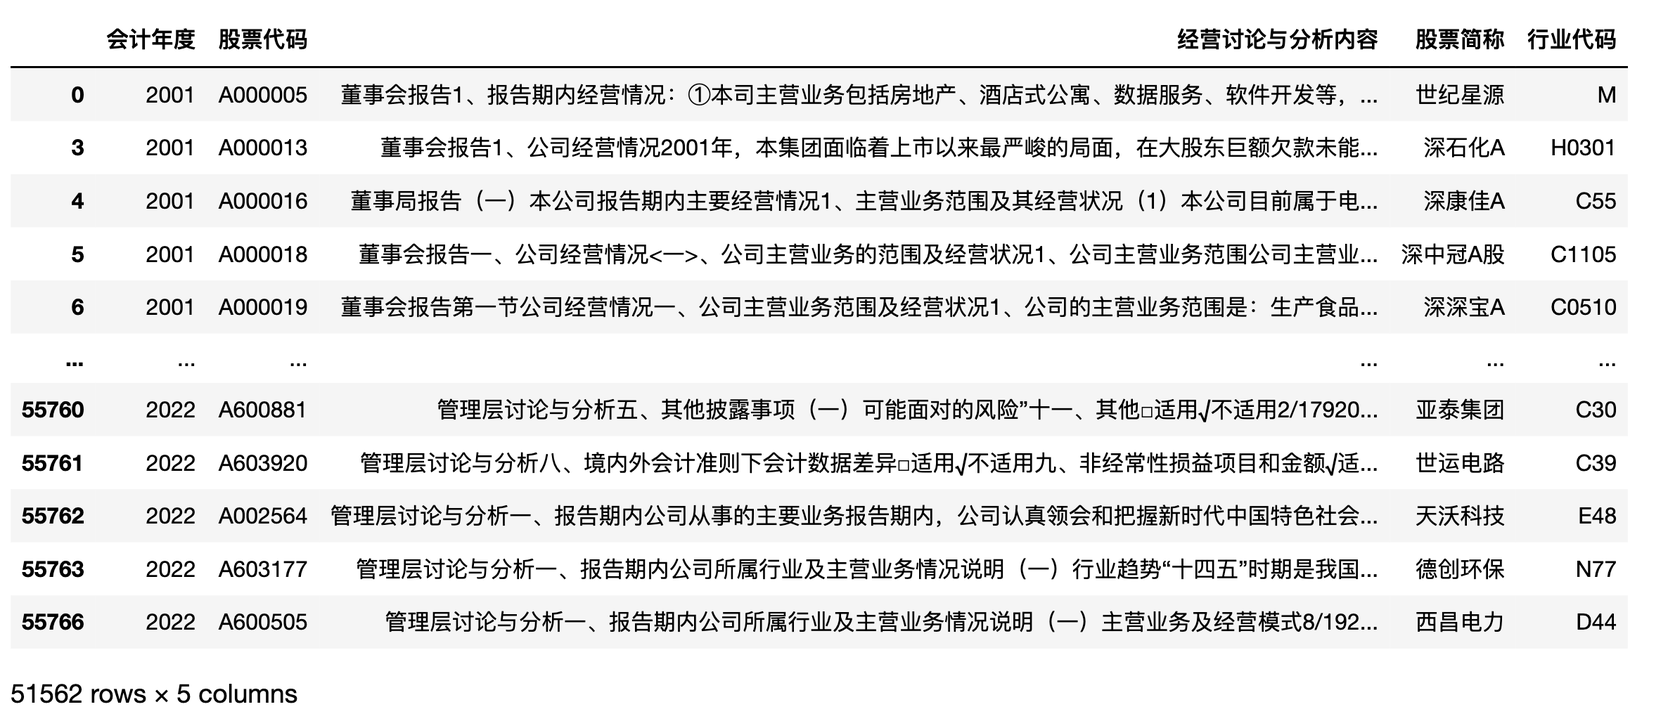
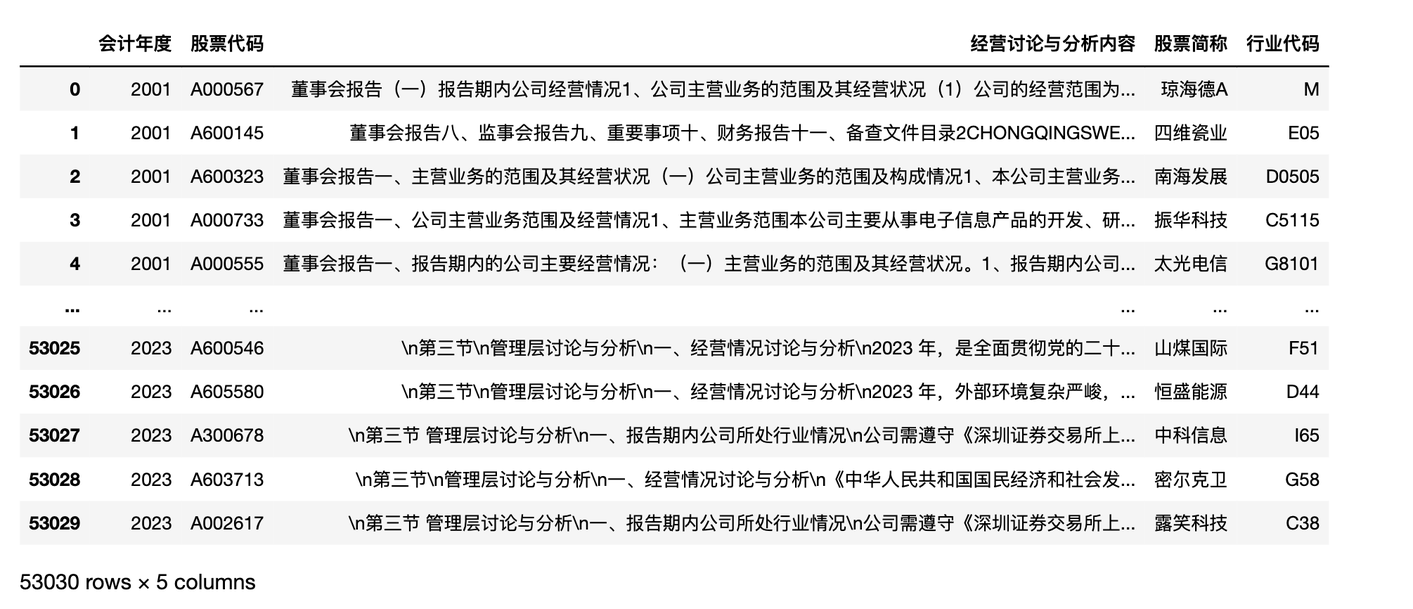
20240510

diff --git a/blog/2024-04-25-firm-economic-policy-uncertainty/index.html b/blog/2024-04-25-firm-economic-policy-uncertainty/index.html
@@ -124,8 +124,8 @@ Step-1. 选择了114家中国大陆的报纸，其中包括北京、上海、广
   "keywords": [
     "Python", "文本分析", "经济管理", "经济政策不确定性"
   ],
-  "articleBody": "本文使用的缩写\n EPU 经济政策不确定性(Economic Policy Uncertainty) FEPU 企业不确定性感知( Subjective perception of economic policy uncertainty)  \n一、背景 「经济政策不确定性(EPU)」 通常是用来衡量经济中政策不确定性水平的一种度量方式。企业作为一个理性的经济主体， 需要根据未来的期望成本和收益进行决策 。政府的经济政策会在很大程度上影响企业的预期成本和收益 ， 如果经济政策频繁变化 ， 会给企业带来困扰 。现有文献经济政策不确定性测量思路大概有\n 股票市场隐含波动率VIX衡量宏观层面经济不确定性。 利用外生变量，并结合企业对这些外生变量的依赖程度衡量企业面临的不确定性 。如政治事件、能源价格、汇率波动、贸易协定签订。 利用新闻文本测量的经济不确定性。  但 经济政策不确定性指标(EPU)存在两个问题\n EPU是宏观指标， 同期所有企业的EPU有且仅有一个观测值。 EPU默认所有企业是同质， 对经济政策不确定性的感知是相同的。  本推文参考聂辉华等(2020)内的算法, 实现利用 经营讨论与分析(MD\u0026A)文本数据 测量企业「企业不确定性感知FEPU」(FEPU, Subjective perception of economic policy uncertainty) 。\n\n二、EPU\u0026FEPU 2.1 EPU 在复现「企业不确定性感知FEPU」前，我们先了解利用新闻数据测量 EPU 的算法，这样更容易理解 FEPU 的原理。参考Huang、Yun\u0026 Paul(2020)，大邓在前段时间分享了一个代码教程 代码 | 使用「新闻数据」计算 「经济政策不确定性」指数 。 新闻数据计算EPU的算法\nStep-1. 选择了114家中国大陆的报纸，其中包括北京、上海、广州和天津等主要城市的报纸。 Step-2. 对于每家报纸，搜索包含以下三个关键词之一的文章：经济、不确定性和政策。这些关键词的中文和英文对照可以在论文的表格1中找到。 Step-3. 将每个月的文章数量按照满足第一个关键词的文章数量进行缩放。 Step-4. 将时间序列标准化，使其在2000年1月至2011年12月期间的标准差为1。 保证所有媒体计算得到的epu是可比的。 Step-5. 对十家报纸的月度序列进行简单平均，并将指标归一化，使其在2000年1月至2011年12月期间的平均值为100。 \n文献中算法内容长， 结构化不足， 理解起来需要一些脑力。 大邓换种描述方式\nEPU_t = m/n - m 时期 t 同时含经济Economic、政策Policy、不确定Uncertainty三类词的新闻条数m - n 时期 t 总的新闻条数n \n2.2 FEPU 理解了 EPU， 就能类比理解「企业不确定性感知FEPU」的算法。\n   算法 数据 层次 n m     EPU 新闻媒体文本 新闻 时期t新闻总条数n 时期t同时存在E、P、U三类词的新闻条数m   FEPU(word) 管理层讨论与分析(md\u0026a) 词语 将时期t的企业i的 md\u0026a 文本词语个数n。 1. 对md\u0026a进行分句2. 同时含EP、U两类词的句子中， 统计这些句子中EP、U的词语出现次数之和m   FEPU(sentence) 管理层讨论与分析(md\u0026a) 句子 将时期t的企业i的 md\u0026a 文本进行分句，得到句子个数n 1. 对md\u0026a进行分句2. 同时含EP、U两类词的句子中， 统计这类句子个数m    \n三、 准备cntext EPU 和 FEPU 于今日刚刚封装到 cntext2.1.1 中， 再计算这两个指数， 就变得容易多了。\n3.1 安装cntext 我使用的自己 未公开 的cntext 2.1.1 版本， Bug频出，等调整好了再公开。\n将 cntext-2.1.1-py3-none-any.whl 放置于桌面，打开 cmd (苹果电脑打开terminal)， 输入cd desktop\ncd desktop \n之后在 cmd (苹果电脑打开terminal) 中使用 pip3 安装\npip3 install pdfdocx pip3 install distinctiveness pip3 install pandarallel pip3 install cntext-2.1.1-py3-none-any.whl \n文末有 cntext-2.1.1-py3-none-any.whl 获取方式\n\n3.2 内置词典    内置文件 词典 参考文献     zh_common_EPU.yaml 经济E、政策P、不确定U Huang, Yun, and Paul Luk（2020）   zh_common_FEPU.yaml 经济政策EP、不确定性U 聂辉华, 阮睿\u0026沈吉（2020）    3.1 查看内置词典 import cntext as ct print(ct.__version__) ct.get_dict_list() Run\n2.1.1 ['zh_common_NTUSD.yaml', 'zh_common_DUTIR.yaml', 'enzh_common_StopWords.yaml', 'en_valence_Concreteness.yaml', 'en_common_LoughranMcDonald.yaml', 'zh_common_FinanceSenti.yaml', 'zh_common_TsinghuaPraiseDegrade.yaml', 'zh_common_FEPU.yaml', 聂辉华, 阮睿\u0026沈吉（2020） 'en_common_ANEW.yaml', 'en_common_NRC.yaml', 'zh_valence_ChineseEmoBank.yaml', 'zh_valence_SixSemanticDimensionDatabase.yaml', 'zh_common_FinacialFormalUnformal.yaml', 'zh_common_LoughranMcDonald.yaml', 'enzh_common_AdvConj.yaml', 'en_common_SentiWS.yaml', 'zh_common_Digitalization.yaml', 'en_common_LSD2015.yaml', 'zh_common_HowNet.yaml', 'zh_common_EPU.yaml'] #Huang, Yun, and Paul Luk（2020） \n3.1.2 导入词典 import cntext as ct FEPU_infos = ct.read_yaml_dict('zh_common_FEPU.yaml') print(FEPU_infos) Run\n{'Name': '中文经济政策不确定性词典', 'Desc': '中文经济政策不确定性词典, 含经济政策EconomicPolicy、不确定性Uncertainty两个词表', 'Refer': '聂辉华, 阮睿, 沈吉. 企业不确定性感知、投资决策和金融资产配置[J]. 世界经济, 2020, 43 (06): 77-98.', 'Category': ['经济政策', '不确定'], 'Dictionary': {'经济政策': ['市政', '政策', '货币政策', '政策鼓励', '国家', '扩内需', '保增长', '促发展', '产业发展', '法律', '法规', '行业政策', '产业政策', '宏观政策', '国民经济', '有关部门', '产业结构调整', '产业结构', '当地政府', '政府', '经济政策', '经济走势', '所得税', '税收减免', '刺激政策', '限贷令', '限购令', '保障房', '宏观调控', '产业发展', '证监会', '国家政策', '政治', '军事', '政策环境', '宏观', '政府补助政策', '调控政策', '税收政策', '政策扶持'], '不确定': ['风险', '经营风险', '市场风险', '信用风险', '不确定', '波动', '变化', '改变', '徘徊', '不稳', '不稳定', '不寻常', '错综复杂', '非常复杂', '纷繁复杂', '纷纭复杂', '十分复杂', '变得复杂', '风云突变', '矛盾突出', '突变', '复杂多变', '诡谲多变', '阵痛', '过渡', '问责', '整顿', '危险', '动荡', '多变性', '震荡', '难以确定', '难以预测', '难以语料', '难以琢磨', '难以捉摸', '接受考验', '混乱', '时而', '随机']} } \n3.3 内置函数 ct.epu(df, freq='Y',e_pattern='', p_pattern='', u_pattern='')  df 新闻DataFrame； DataFrame必须含date和text两个字段；每行一条记录，含所有时期所有的新闻。 freq 字符串；决定EPU的时间粒度， 年Y、月M、天D， 默认freq=‘Y’ e_pattern 字符串；经济类词典，用|间隔词语，形如 e_pattern = ‘经济|金融’ p_pattern 字符串；政策词典，用|间隔词语，形如 p_pattern = ‘政策|治理|行政’ u_pattern 字符串；不确定性词典，用|间隔词语，形如 u_pattern = ‘风险|危机|难以预测’  返回epu时间序列数据，格式为DataFrame\nct.fepu(text, ep_pattern='', u_pattern='')  text ；某时期t某企业i的管理层讨论与分析md\u0026a文本 ep_pattern 字符串；经济政策类词典，用|间隔词语，形如 ep_pattern = ‘经济|金融|政策|治理|行政’ u_pattern 字符串；不确定性词典，用|间隔词语，形如 u_pattern = ‘风险|危机|难以预测’  \n四、测量FEPU 4.1 读取数据  mda01-22.csv.gz 管理层讨论与分析2001-2022文本数据 行业代码00-22.xlsx 含股票名称、股票代码、行业等字段。  import pandas as pd df = pd.read_csv('mda01-22.csv.gz', compression='gzip') df.columns = ['会计年度', '股票代码', '经营讨论与分析内容'] #上市公司行业信息 ind_info_df = pd.read_excel('行业代码00-22.xlsx') #合并数据 df = pd.merge(df, ind_info_df, on=['股票代码', '会计年度'], how='inner') #剔除ST和金融类企业 df = df[(-df['股票简称'].str.contains('ST')) \u0026 (-df['行业代码'].str.contains('J'))] df 4.2 批量计算FEPU 选中字段 「经营讨论与分析内容」， 对该字段 .apply 运行函数 ct.fepu ，得到企业感知经济不确定性风险FEPU(含词语和句子两个FEPU)\n%%time #常规速度代码 #import cntext as ct #fepu_df = df['经营讨论与分析内容'].apply(ct.fepu) #res_df = pd.concat([df[['会计年度', '股票代码']], fepu_df], axis=1) #res_df.to_csv('result.csv', index=False) #res_df #加速版代码 import cntext as ct from pandarallel import pandarallel pandarallel.initialize() fepu_df = df['经营讨论与分析内容'].parallel_apply(ct.fepu) res_df = pd.concat([df[['会计年度', '股票代码']], fepu_df], axis=1) res_df.to_csv('result.csv', index=False) res_df Run\nCPU times: user 1.35 s, sys: 1.2 s, total: 2.54 s Wall time: 4min 29s `\n\n4.3 可视化 根据 FEPUw 和 FEPUs 的年度均值， 绘制2001-2022期间的经济政策不确定性变化折线图\nimport matplotlib.pyplot as plt import matplotlib import scienceplots import platform import matplotlib_inline matplotlib_inline.backend_inline.set_matplotlib_formats('png', 'svg') plt.style.use(['science', 'no-latex', 'cjk-sc-font']) system = platform.system() # 获取操作系统类型 if system == 'Windows': font = {'family': 'SimHei'} elif system == 'Darwin': font = {'family': 'Arial Unicode MS'} else: font = {'family': 'sans-serif'} matplotlib.rc('font', **font) # 设置全局字体 years = range(2001, 2023) FEPUw_s = [] FEPUs_s = [] for year, year_df in res_df.groupby('会计年度'): FEPUw_s.append(year_df['FEPUw'].mean()) FEPUs_s.append(year_df['FEPUs'].mean()) plt.figure(figsize=(10, 5)) plt.plot(years, FEPUw_s) plt.plot(years, FEPUs_s) plt.scatter(years, FEPUw_s, label='SEPUw') plt.scatter(years, FEPUs_s, label='SEPUs') plt.title('感知经济政策不确定性FEPU年度均值', size=12) plt.xlabel('年份', size=13) plt.ylabel('FEPU均值', size=13) plt.legend() plt.show() \n五、参考文献 [1]聂辉华, 阮睿, 沈吉. 企业不确定性感知、投资决策和金融资产配置[J]. 世界经济, 2020, 43 (06): 77-98. [2]Li, Jing, Huihua Nie, Rui Ruan, and Xinyi Shen. \"Subjective perception of economic policy uncertainty and corporate social responsibility: Evidence from China.\" International Review of Financial Analysis 91 (2024): 103022. [3]Huang, Yun, and Paul Luk. \"Measuring economic policy uncertainty in China.\" China Economic Review 59 (2020): 10136 \n六、获取资料 内容原创不易，\n- 100元 - mda01-22.csv.gz - A01-22.csv.gz - 100元 cntext-2.1.1-py3-none-any.whl - 200元 - mda01-22.csv.gz - A01-22.csv.gz - cntext-2.1.1-py3-none-any.whl 加微信 372335839， 备注「姓名-学校-专业」。\n\n广而告之  长期征稿 长期招募小伙伴 付费视频课 | Python实证指标构建与文本分析  ",
-  "wordCount" : "664",
+  "articleBody": "本文使用的缩写\n EPU 经济政策不确定性(Economic Policy Uncertainty) FEPU 企业不确定性感知( Subjective perception of economic policy uncertainty)  \n一、背景 「经济政策不确定性(EPU)」 通常是用来衡量经济中政策不确定性水平的一种度量方式。企业作为一个理性的经济主体， 需要根据未来的期望成本和收益进行决策 。政府的经济政策会在很大程度上影响企业的预期成本和收益 ， 如果经济政策频繁变化 ， 会给企业带来困扰 。现有文献经济政策不确定性测量思路大概有\n 股票市场隐含波动率VIX衡量宏观层面经济不确定性。 利用外生变量，并结合企业对这些外生变量的依赖程度衡量企业面临的不确定性 。如政治事件、能源价格、汇率波动、贸易协定签订。 利用新闻文本测量的经济不确定性。  但 经济政策不确定性指标(EPU)存在两个问题\n EPU是宏观指标， 同期所有企业的EPU有且仅有一个观测值。 EPU默认所有企业是同质， 对经济政策不确定性的感知是相同的。  本推文参考聂辉华等(2020)内的算法, 实现利用 经营讨论与分析(MD\u0026A)文本数据 测量企业「企业不确定性感知FEPU」(FEPU, Subjective perception of economic policy uncertainty) 。\n\n二、EPU\u0026FEPU 2.1 EPU 在复现「企业不确定性感知FEPU」前，我们先了解利用新闻数据测量 EPU 的算法，这样更容易理解 FEPU 的原理。参考Huang、Yun\u0026 Paul(2020)，大邓在前段时间分享了一个代码教程 代码 | 使用「新闻数据」计算 「经济政策不确定性」指数 。 新闻数据计算EPU的算法\nStep-1. 选择了114家中国大陆的报纸，其中包括北京、上海、广州和天津等主要城市的报纸。 Step-2. 对于每家报纸，搜索包含以下三个关键词之一的文章：经济、不确定性和政策。这些关键词的中文和英文对照可以在论文的表格1中找到。 Step-3. 将每个月的文章数量按照满足第一个关键词的文章数量进行缩放。 Step-4. 将时间序列标准化，使其在2000年1月至2011年12月期间的标准差为1。 保证所有媒体计算得到的epu是可比的。 Step-5. 对十家报纸的月度序列进行简单平均，并将指标归一化，使其在2000年1月至2011年12月期间的平均值为100。 \n文献中算法内容长， 结构化不足， 理解起来需要一些脑力。 大邓换种描述方式\nEPU_t = m/n - m 时期 t 同时含经济Economic、政策Policy、不确定Uncertainty三类词的新闻条数m - n 时期 t 总的新闻条数n \n2.2 FEPU 理解了 EPU， 就能类比理解「企业不确定性感知FEPU」的算法。\n   算法 数据 层次 n m     EPU 新闻媒体文本 新闻 时期t新闻总条数n 时期t同时存在E、P、U三类词的新闻条数m   FEPU(word) 管理层讨论与分析(md\u0026a) 词语 将时期t的企业i的 md\u0026a 文本词语个数n。 1. 对md\u0026a进行分句2. 同时含EP、U两类词的句子中， 统计这些句子中EP、U的词语出现次数之和m   FEPU(sentence) 管理层讨论与分析(md\u0026a) 句子 将时期t的企业i的 md\u0026a 文本进行分句，得到句子个数n 1. 对md\u0026a进行分句2. 同时含EP、U两类词的句子中， 统计这类句子个数m    \n三、 准备cntext EPU 和 FEPU 于今日刚刚封装到 cntext2.1.1 中， 再计算这两个指数， 就变得容易多了。\n3.1 安装cntext 我使用的自己 未公开 的cntext 2.1.1 版本， Bug频出，等调整好了再公开。\n将 cntext-2.1.1-py3-none-any.whl 放置于桌面，打开 cmd (苹果电脑打开terminal)， 输入cd desktop\ncd desktop \n之后在 cmd (苹果电脑打开terminal) 中使用 pip3 安装\npip3 install pdfdocx pip3 install distinctiveness pip3 install pandarallel pip3 install cntext-2.1.1-py3-none-any.whl \n文末有 cntext-2.1.1-py3-none-any.whl 获取方式\n\n3.2 内置词典    内置文件 词典 参考文献     zh_common_EPU.yaml 经济E、政策P、不确定U Huang, Yun, and Paul Luk（2020）   zh_common_FEPU.yaml 经济政策EP、不确定性U 聂辉华, 阮睿\u0026沈吉（2020）    3.1 查看内置词典 import cntext as ct print(ct.__version__) ct.get_dict_list() Run\n2.1.1 ['zh_common_NTUSD.yaml', 'zh_common_DUTIR.yaml', 'enzh_common_StopWords.yaml', 'en_valence_Concreteness.yaml', 'en_common_LoughranMcDonald.yaml', 'zh_common_FinanceSenti.yaml', 'zh_common_TsinghuaPraiseDegrade.yaml', 'zh_common_FEPU.yaml', 聂辉华, 阮睿\u0026沈吉（2020） 'en_common_ANEW.yaml', 'en_common_NRC.yaml', 'zh_valence_ChineseEmoBank.yaml', 'zh_valence_SixSemanticDimensionDatabase.yaml', 'zh_common_FinacialFormalUnformal.yaml', 'zh_common_LoughranMcDonald.yaml', 'enzh_common_AdvConj.yaml', 'en_common_SentiWS.yaml', 'zh_common_Digitalization.yaml', 'en_common_LSD2015.yaml', 'zh_common_HowNet.yaml', 'zh_common_EPU.yaml'] #Huang, Yun, and Paul Luk（2020） \n3.1.2 导入词典 import cntext as ct FEPU_infos = ct.read_yaml_dict('zh_common_FEPU.yaml') print(FEPU_infos) Run\n{'Name': '中文经济政策不确定性词典', 'Desc': '中文经济政策不确定性词典, 含经济政策EconomicPolicy、不确定性Uncertainty两个词表', 'Refer': '聂辉华, 阮睿, 沈吉. 企业不确定性感知、投资决策和金融资产配置[J]. 世界经济, 2020, 43 (06): 77-98.', 'Category': ['经济政策', '不确定'], 'Dictionary': {'经济政策': ['市政', '政策', '货币政策', '政策鼓励', '国家', '扩内需', '保增长', '促发展', '产业发展', '法律', '法规', '行业政策', '产业政策', '宏观政策', '国民经济', '有关部门', '产业结构调整', '产业结构', '当地政府', '政府', '经济政策', '经济走势', '所得税', '税收减免', '刺激政策', '限贷令', '限购令', '保障房', '宏观调控', '产业发展', '证监会', '国家政策', '政治', '军事', '政策环境', '宏观', '政府补助政策', '调控政策', '税收政策', '政策扶持'], '不确定': ['风险', '经营风险', '市场风险', '信用风险', '不确定', '波动', '变化', '改变', '徘徊', '不稳', '不稳定', '不寻常', '错综复杂', '非常复杂', '纷繁复杂', '纷纭复杂', '十分复杂', '变得复杂', '风云突变', '矛盾突出', '突变', '复杂多变', '诡谲多变', '阵痛', '过渡', '问责', '整顿', '危险', '动荡', '多变性', '震荡', '难以确定', '难以预测', '难以语料', '难以琢磨', '难以捉摸', '接受考验', '混乱', '时而', '随机']} } \n3.3 内置函数 ct.epu(df, freq='Y',e_pattern='', p_pattern='', u_pattern='')  df 新闻DataFrame； DataFrame必须含date和text两个字段；每行一条记录，含所有时期所有的新闻。 freq 字符串；决定EPU的时间粒度， 年Y、月M、天D， 默认freq=‘Y’ e_pattern 字符串；经济类词典，用|间隔词语，形如 e_pattern = ‘经济|金融’ p_pattern 字符串；政策词典，用|间隔词语，形如 p_pattern = ‘政策|治理|行政’ u_pattern 字符串；不确定性词典，用|间隔词语，形如 u_pattern = ‘风险|危机|难以预测’  返回epu时间序列数据，格式为DataFrame\nct.fepu(text, ep_pattern='', u_pattern='')  text ；某时期t某企业i的管理层讨论与分析md\u0026a文本 ep_pattern 字符串；经济政策类词典，用|间隔词语，形如 ep_pattern = ‘经济|金融|政策|治理|行政’ u_pattern 字符串；不确定性词典，用|间隔词语，形如 u_pattern = ‘风险|危机|难以预测’  \n四、测量FEPU 4.1 读取数据  mda01-23.csv.gz 管理层讨论与分析2001-2023文本数据 行业代码00-23.xlsx 含股票名称、股票代码、行业等字段。  import pandas as pd df = pd.read_csv('mda01-23.csv.gz', compression='gzip') df.columns = ['会计年度', '股票代码', '经营讨论与分析内容'] #上市公司行业信息 ind_info_df = pd.read_excel('行业代码00-23.xlsx') #合并数据 df = pd.merge(df, ind_info_df, on=['股票代码', '会计年度'], how='inner') #剔除ST和金融类企业 df = df[(-df['股票简称'].str.contains('ST')) \u0026 (-df['行业代码'].str.contains('J'))] df.sort_values('会计年度', ignore_index=True, inplace=True) df 4.2 批量计算FEPU 选中字段 「经营讨论与分析内容」， 对该字段 .apply 运行函数 ct.fepu ，得到企业感知经济不确定性风险FEPU(含词语和句子两个FEPU)\n%%time #常规速度代码 #import cntext as ct #fepu_df = df['经营讨论与分析内容'].apply(ct.fepu) #res_df = pd.concat([df[['会计年度', '股票代码']], fepu_df], axis=1) #res_df.to_csv('result.csv', index=False) #res_df #加速版代码 import cntext as ct from pandarallel import pandarallel pandarallel.initialize() fepu_df = df['经营讨论与分析内容'].parallel_apply(ct.fepu) res_df = pd.concat([df[['会计年度', '股票代码']], fepu_df], axis=1) res_df.to_csv('企业感知不确定性FEPU指数2001-2023.csv', index=False) res_df Run\nCPU times: user 1.35 s, sys: 1.2 s, total: 2.54 s Wall time: 5min 9s `\n\n4.3 可视化 根据 FEPUw 和 FEPUs 的年度均值， 绘制2001-2022期间的经济政策不确定性变化折线图\nimport matplotlib.pyplot as plt import matplotlib import scienceplots import platform import matplotlib_inline matplotlib_inline.backend_inline.set_matplotlib_formats('png', 'svg') plt.style.use(['science', 'no-latex', 'cjk-sc-font']) system = platform.system() # 获取操作系统类型 if system == 'Windows': font = {'family': 'SimHei'} elif system == 'Darwin': font = {'family': 'Arial Unicode MS'} else: font = {'family': 'sans-serif'} matplotlib.rc('font', **font) # 设置全局字体 years = range(2001, 2024) FEPUw_s = [] FEPUs_s = [] for year, year_df in res_df.groupby('会计年度'): FEPUw_s.append(year_df['FEPUw'].mean()) FEPUs_s.append(year_df['FEPUs'].mean()) plt.figure(figsize=(10, 5)) plt.plot(years, FEPUw_s) plt.plot(years, FEPUs_s) plt.scatter(years, FEPUw_s, label='SEPUw') plt.scatter(years, FEPUs_s, label='SEPUs') plt.title('感知经济政策不确定性FEPU年度均值', size=12) plt.xlabel('年份', size=13) plt.ylabel('FEPU均值', size=13) plt.legend() plt.show() \n五、参考文献 [1]聂辉华, 阮睿, 沈吉. 企业不确定性感知、投资决策和金融资产配置[J]. 世界经济, 2020, 43 (06): 77-98. [2]Li, Jing, Huihua Nie, Rui Ruan, and Xinyi Shen. \"Subjective perception of economic policy uncertainty and corporate social responsibility: Evidence from China.\" International Review of Financial Analysis 91 (2024): 103022. [3]Huang, Yun, and Paul Luk. \"Measuring economic policy uncertainty in China.\" China Economic Review 59 (2020): 10136 \n六、获取资料 内容原创不易，\n- 100元 - mda01-23.csv.gz - A01-23.csv.gz - 100元 cntext-2.1.1-py3-none-any.whl - 200元 - mda01-23.csv.gz - A01-23.csv.gz - cntext-2.1.1-py3-none-any.whl - 企业感知不确定性FEPU指数 加微信 372335839， 备注「姓名-学校-专业」。\n\n广而告之  长期征稿 长期招募小伙伴 付费视频课 | Python实证指标构建与文本分析  ",
+  "wordCount" : "669",
   "inLanguage": "en",
   "image":"/images/blog/economic-policy-uncertainty2.jpeg","datePublished": "2024-04-25T00:00:00Z",
   "dateModified": "2024-04-25T00:00:00Z",
@@ -614,22 +614,23 @@ pip3 install cntext-2.1.1-py3-none-any.whl
 <h2 id="四测量fepu">四、测量FEPU<a hidden class="anchor" aria-hidden="true" href="#四测量fepu">#</a></h2>
 <h3 id="41-读取数据">4.1 读取数据<a hidden class="anchor" aria-hidden="true" href="#41-读取数据">#</a></h3>
 <ul>
-<li><em><strong>mda01-22.csv.gz</strong></em>   管理层讨论与分析2001-2022文本数据</li>
-<li><em><strong>行业代码00-22.xlsx</strong></em>  含股票名称、股票代码、行业等字段。</li>
+<li><em><strong>mda01-23.csv.gz</strong></em>   管理层讨论与分析2001-2023文本数据</li>
+<li><em><strong>行业代码00-23.xlsx</strong></em>  含股票名称、股票代码、行业等字段。</li>
 </ul>
 <div class="highlight"><pre tabindex="0" class="chroma"><code class="language-python" data-lang="python"><span class="kn">import</span> <span class="nn">pandas</span> <span class="k">as</span> <span class="nn">pd</span>
 
-<span class="n">df</span> <span class="o">=</span> <span class="n">pd</span><span class="o">.</span><span class="n">read_csv</span><span class="p">(</span><span class="s1">&#39;mda01-22.csv.gz&#39;</span><span class="p">,</span> <span class="n">compression</span><span class="o">=</span><span class="s1">&#39;gzip&#39;</span><span class="p">)</span>
+<span class="n">df</span> <span class="o">=</span> <span class="n">pd</span><span class="o">.</span><span class="n">read_csv</span><span class="p">(</span><span class="s1">&#39;mda01-23.csv.gz&#39;</span><span class="p">,</span> <span class="n">compression</span><span class="o">=</span><span class="s1">&#39;gzip&#39;</span><span class="p">)</span>
 <span class="n">df</span><span class="o">.</span><span class="n">columns</span> <span class="o">=</span> <span class="p">[</span><span class="s1">&#39;会计年度&#39;</span><span class="p">,</span> <span class="s1">&#39;股票代码&#39;</span><span class="p">,</span> <span class="s1">&#39;经营讨论与分析内容&#39;</span><span class="p">]</span>
 
 <span class="c1">#上市公司行业信息</span>
-<span class="n">ind_info_df</span> <span class="o">=</span> <span class="n">pd</span><span class="o">.</span><span class="n">read_excel</span><span class="p">(</span><span class="s1">&#39;行业代码00-22.xlsx&#39;</span><span class="p">)</span>
+<span class="n">ind_info_df</span> <span class="o">=</span> <span class="n">pd</span><span class="o">.</span><span class="n">read_excel</span><span class="p">(</span><span class="s1">&#39;行业代码00-23.xlsx&#39;</span><span class="p">)</span>
 
 <span class="c1">#合并数据</span>
 <span class="n">df</span> <span class="o">=</span> <span class="n">pd</span><span class="o">.</span><span class="n">merge</span><span class="p">(</span><span class="n">df</span><span class="p">,</span> <span class="n">ind_info_df</span><span class="p">,</span> <span class="n">on</span><span class="o">=</span><span class="p">[</span><span class="s1">&#39;股票代码&#39;</span><span class="p">,</span> <span class="s1">&#39;会计年度&#39;</span><span class="p">],</span> <span class="n">how</span><span class="o">=</span><span class="s1">&#39;inner&#39;</span><span class="p">)</span>
 
 <span class="c1">#剔除ST和金融类企业</span>
 <span class="n">df</span> <span class="o">=</span> <span class="n">df</span><span class="p">[(</span><span class="o">-</span><span class="n">df</span><span class="p">[</span><span class="s1">&#39;股票简称&#39;</span><span class="p">]</span><span class="o">.</span><span class="n">str</span><span class="o">.</span><span class="n">contains</span><span class="p">(</span><span class="s1">&#39;ST&#39;</span><span class="p">))</span> <span class="o">&amp;</span> <span class="p">(</span><span class="o">-</span><span class="n">df</span><span class="p">[</span><span class="s1">&#39;行业代码&#39;</span><span class="p">]</span><span class="o">.</span><span class="n">str</span><span class="o">.</span><span class="n">contains</span><span class="p">(</span><span class="s1">&#39;J&#39;</span><span class="p">))]</span>
+<span class="n">df</span><span class="o">.</span><span class="n">sort_values</span><span class="p">(</span><span class="s1">&#39;会计年度&#39;</span><span class="p">,</span> <span class="n">ignore_index</span><span class="o">=</span><span class="kc">True</span><span class="p">,</span> <span class="n">inplace</span><span class="o">=</span><span class="kc">True</span><span class="p">)</span>
 <span class="n">df</span>
 </code></pre></div><p><img loading="lazy" src="img/df.png" alt=""  />
 </p>
@@ -651,11 +652,11 @@ pip3 install cntext-2.1.1-py3-none-any.whl
 <span class="n">pandarallel</span><span class="o">.</span><span class="n">initialize</span><span class="p">()</span>
 <span class="n">fepu_df</span> <span class="o">=</span> <span class="n">df</span><span class="p">[</span><span class="s1">&#39;经营讨论与分析内容&#39;</span><span class="p">]</span><span class="o">.</span><span class="n">parallel_apply</span><span class="p">(</span><span class="n">ct</span><span class="o">.</span><span class="n">fepu</span><span class="p">)</span>
 <span class="n">res_df</span> <span class="o">=</span> <span class="n">pd</span><span class="o">.</span><span class="n">concat</span><span class="p">([</span><span class="n">df</span><span class="p">[[</span><span class="s1">&#39;会计年度&#39;</span><span class="p">,</span> <span class="s1">&#39;股票代码&#39;</span><span class="p">]],</span> <span class="n">fepu_df</span><span class="p">],</span> <span class="n">axis</span><span class="o">=</span><span class="mi">1</span><span class="p">)</span>
-<span class="n">res_df</span><span class="o">.</span><span class="n">to_csv</span><span class="p">(</span><span class="s1">&#39;result.csv&#39;</span><span class="p">,</span> <span class="n">index</span><span class="o">=</span><span class="kc">False</span><span class="p">)</span>
+<span class="n">res_df</span><span class="o">.</span><span class="n">to_csv</span><span class="p">(</span><span class="s1">&#39;企业感知不确定性FEPU指数2001-2023.csv&#39;</span><span class="p">,</span> <span class="n">index</span><span class="o">=</span><span class="kc">False</span><span class="p">)</span>
 <span class="n">res_df</span>
 </code></pre></div><p>Run</p>
 <div class="highlight"><pre tabindex="0" class="chroma"><code class="language-fallback" data-lang="fallback">CPU times: user 1.35 s, sys: 1.2 s, total: 2.54 s
-Wall time: 4min 29s
+Wall time: 5min 9s
 </code></pre></div><p><img loading="lazy" src="img/df2.png" alt=""  />
 </p>
 <p>`</p>
@@ -680,7 +681,7 @@ Wall time: 4min 29s
 <span class="n">matplotlib</span><span class="o">.</span><span class="n">rc</span><span class="p">(</span><span class="s1">&#39;font&#39;</span><span class="p">,</span> <span class="o">**</span><span class="n">font</span><span class="p">)</span>  <span class="c1"># 设置全局字体</span>
 
 
-<span class="n">years</span> <span class="o">=</span> <span class="nb">range</span><span class="p">(</span><span class="mi">2001</span><span class="p">,</span> <span class="mi">2023</span><span class="p">)</span>
+<span class="n">years</span> <span class="o">=</span> <span class="nb">range</span><span class="p">(</span><span class="mi">2001</span><span class="p">,</span> <span class="mi">2024</span><span class="p">)</span>
 <span class="n">FEPUw_s</span> <span class="o">=</span> <span class="p">[]</span>
 <span class="n">FEPUs_s</span> <span class="o">=</span> <span class="p">[]</span>
 
@@ -710,15 +711,16 @@ Wall time: 4min 29s
 <h2 id="六获取资料">六、获取资料<a hidden class="anchor" aria-hidden="true" href="#六获取资料">#</a></h2>
 <p>内容原创不易，</p>
 <div class="highlight"><pre tabindex="0" class="chroma"><code class="language-fallback" data-lang="fallback">- 100元 
-   - mda01-22.csv.gz
-   - A01-22.csv.gz 
+   - mda01-23.csv.gz
+   - A01-23.csv.gz 
 
 - 100元 cntext-2.1.1-py3-none-any.whl
 
 - 200元 
-   - mda01-22.csv.gz
-   - A01-22.csv.gz 
+   - mda01-23.csv.gz
+   - A01-23.csv.gz 
    - cntext-2.1.1-py3-none-any.whl
+   - 企业感知不确定性FEPU指数
 </code></pre></div><p>加微信 <strong>372335839</strong>， 备注「姓名-学校-专业」。</p>
 <p><br><br></p>
 <h2 id="广而告之">广而告之<a hidden class="anchor" aria-hidden="true" href="#广而告之">#</a></h2>

diff --git a/blog/2023-03-23-china-a-share-market-dataset-mda-from-01-to-21/index.html b/blog/2023-03-23-china-a-share-market-dataset-mda-from-01-to-21/index.html
@@ -145,8 +145,8 @@ mda_df.code.nunique() Run"/>
   "keywords": [
     "Python", "数据集", "dataset", "经济管理", "A股", "年报", "管理层讨论与分析", "md\u0026a", "文本分析"
   ],
-  "articleBody": "一、数据集介绍 2001-2023年A股年报数据集，含 4 个文件，约 15G。\n- 管理层讨论与分析txt.zip - 年报txt.zip - A01-23.csv.gz - mda01-23.csv.gz 注意\n zip文件夹是原始数据， 解压后内部为 txt 文件。 gz文件为汇总数据， 解压后是csv文件。  \n二、年报数据 2001-2023年年报数据。数据中只有year、code、text三个字段， 如果想增加诸如公司简称、行业等信息， 可以使用 数据集 | A股上市公司基本信息 进行并表。\nimport pandas as pd anual_report_df = pd.read_csv('A01-23.csv.gz', compression='gzip') anual_report_df 年报记录数\nlen(anual_report_df) Run\n61980 \n上市公司总数\nanual_report_df.code.nunique() Run\n5629 \n三、MD\u0026A数据 2001-2023年MD\u0026A数据， 数据中只有year、code、text三个字段， 如果想增加诸如公司简称、行业等信息， 可以使用 数据集 | A股上市公司基本信息 进行并表。\nmda_df = pd.read_csv('mda01-23.csv.gz', compression='gzip') mda_df len(mda_df) Run\n59451 \n上市公司总数\nmda_df.code.nunique() Run\n5531 \n四、说明 从代码运行发现， md\u0026a记录量少于年报记录量。这是由于 mda01-23.csv.gz 是从 A01-23.csv.gz 中生成的， 由于上市公司的年报不是一套模板生成的， 每个公司模板不同，甚至每个公司前后年度报告的排版也会发生变化。在编程提取md\u0026a的过程中， 会因排版规则不能穷举， 导致md\u0026a样本量略微小于年报的样本量。\nanual_report_df['year'] = anual_report_df['year'].astype(int) mda_df['year'] = mda_df['year'].astype(int) print('查看每年mda记录量与年报记录量之比') for year in range(2001, 2024): mda_record_num = len(mda_df[mda_df.year==year]) anual_report_record_num = len(anual_report_df[anual_report_df.year==year]) print(f'{year}:', mda_record_num/anual_report_record_num) Run\n查看每年mda记录量与年报记录量之比 2001 : 0.6546700942587832 2002 : 0.8569105691056911 2003 : 0.9287925696594427 2004 : 0.9550398839738942 2005 : 0.9707602339181286 2006 : 0.9745879120879121 2007 : 0.9821882951653944 2008 : 0.9846153846153847 2009 : 0.9859075535512966 2010 : 0.9868544600938968 2011 : 0.9894291754756871 2012 : 0.9891696750902527 2013 : 0.9901458415451321 2014 : 0.9905767056162834 2015 : 0.9922616953921913 2016 : 0.9926681542875359 2017 : 0.9934528892684316 2018 : 0.9892384105960265 2019 : 0.9639227642276422 2020 : 0.9642857142857143 2021 : 0.9310064935064936 2022 : 0.9838492597577388 2023 : 0.8729714605484051 \n五、相关内容  数据集 | 港股年报文本数据集(2007 ~ 2023.12) 数据集(付费) | 三板上市公司年报2002-2023.12 数据集 | 美股年报10-K、20-F数据(2000-2023.12) 词向量(付费) | 使用MD\u0026A2001-2022语料训练Word2Vec模型 中国工业经济 | MD\u0026A信息含量指标构建代码实现 金融研究 | 使用Python构建「关键审计事项信息含量」 中国管理科学 | 使用业绩说明会文本数据测量上市公司前瞻性信息 数据集 | A股上市公司基本信息  \n六、获取数据 数据集 100 元，加微信 372335839， 备注「姓名-学校-专业」。\n\n广而告之  长期征稿 长期招募小伙伴 付费视频课 | Python实证指标构建与文本分析  ",
-  "wordCount" : "207",
+  "articleBody": "一、数据集介绍 2001-2023年A股年报数据集，含 4 个文件，约 15G。\n- 管理层讨论与分析txt.zip - 年报txt.zip - A01-23.csv.gz - mda01-23.csv.gz 注意\n zip文件夹是原始数据， 解压后内部为 txt 文件。 gz文件为汇总数据， 解压后是csv文件。  \n二、年报数据 2001-2023年年报数据。数据中只有year、code、text三个字段， 如果想增加诸如公司简称、行业等信息， 可以使用 数据集 | A股上市公司基本信息 进行并表。\nimport pandas as pd anual_report_df = pd.read_csv('A01-23.csv.gz', compression='gzip') anual_report_df 年报记录数\nlen(anual_report_df) Run\n61980 \n上市公司总数\nanual_report_df.code.nunique() Run\n5629 \n三、MD\u0026A数据 2001-2023年MD\u0026A数据， 数据中只有year、code、text三个字段， 如果想增加诸如公司简称、行业等信息， 可以使用 数据集 | A股上市公司基本信息 进行并表。\nmda_df = pd.read_csv('mda01-23.csv.gz', compression='gzip') mda_df len(mda_df) Run\n59451 \n上市公司总数\nmda_df.code.nunique() Run\n5531 \n四、说明 从代码运行发现， md\u0026a记录量少于年报记录量。这是由于 mda01-23.csv.gz 是从 A01-23.csv.gz 中生成的， 由于上市公司的年报不是一套模板生成的， 每个公司模板不同，甚至每个公司前后年度报告的排版也会发生变化。在编程提取md\u0026a的过程中， 会因排版规则不能穷举， 导致md\u0026a样本量略微小于年报的样本量。\nanual_report_df['year'] = anual_report_df['year'].astype(int) mda_df['year'] = mda_df['year'].astype(int) print('查看每年mda记录量与年报记录量之比') for year in range(2001, 2024): mda_record_num = len(mda_df[mda_df.year==year]) anual_report_record_num = len(anual_report_df[anual_report_df.year==year]) print(f'{year}:', mda_record_num/anual_report_record_num) Run\n查看每年mda记录量与年报记录量之比 2001 : 0.6546700942587832 2002 : 0.8569105691056911 2003 : 0.9287925696594427 2004 : 0.9550398839738942 2005 : 0.9707602339181286 2006 : 0.9745879120879121 2007 : 0.9821882951653944 2008 : 0.9846153846153847 2009 : 0.9859075535512966 2010 : 0.9868544600938968 2011 : 0.9894291754756871 2012 : 0.9891696750902527 2013 : 0.9901458415451321 2014 : 0.9905767056162834 2015 : 0.9922616953921913 2016 : 0.9926681542875359 2017 : 0.9934528892684316 2018 : 0.9892384105960265 2019 : 0.9639227642276422 2020 : 0.9642857142857143 2021 : 0.9310064935064936 2022 : 0.9838492597577388 2023 : 0.8729714605484051 \n五、相关内容  数据集 | 港股年报文本数据集(2007 ~ 2023.12) 数据集(付费) | 三板上市公司年报2002-2023.12 数据集 | 美股年报10-K、20-F数据(2000-2023.12) 词向量(付费) | 使用MD\u0026A2001-2022语料训练Word2Vec模型 中国工业经济 | MD\u0026A信息含量指标构建代码实现 金融研究 | 使用Python构建「关键审计事项信息含量」 中国管理科学 | 使用业绩说明会文本数据测量上市公司前瞻性信息 代码 | 使用 MD\u0026A文本测量「企业不确定性感知FEPU」 数据集 | A股上市公司基本信息  \n六、获取数据 数据集 100 元，加微信 372335839， 备注「姓名-学校-专业」。\n\n广而告之  长期征稿 长期招募小伙伴 付费视频课 | Python实证指标构建与文本分析  ",
+  "wordCount" : "211",
   "inLanguage": "en",
   "image":"/images/blog/a-share-market-annual-reports-dataset.jpg","datePublished": "2024-05-08T00:00:00Z",
   "dateModified": "2024-05-08T00:00:00Z",
@@ -528,6 +528,7 @@ onload="renderMathInElement(document.body);"></script>
 <li><a href="https://textdata.cn/blog/2023-01-06-mda_informative_content/">中国工业经济 | MD&amp;A信息含量指标构建代码实现</a></li>
 <li><a href="https://textdata.cn/blog/2023-01-13-information-content-of-critical-audit/">金融研究 | 使用Python构建「关键审计事项信息含量」</a></li>
 <li><a href="https://textdata.cn/blog/2023-09-08-earnings-communication-conference-forward-looking-statements-information/">中国管理科学 | 使用业绩说明会文本数据测量上市公司前瞻性信息</a></li>
+<li><a href="https://textdata.cn/blog/2024-04-25-firm-economic-policy-uncertainty/">代码 | 使用 MD&amp;A文本测量「企业不确定性感知FEPU」</a></li>
 <li><a href="https://textdata.cn/blog/2024-04-16-china-listed-company-information-dataset/"><strong>数据集 | A股上市公司基本信息</strong></a></li>
 </ul>
 <p><br><br></p>

diff --git a/startpage/js/config.js b/startpage/js/config.js
@@ -107,6 +107,12 @@ class Config {
 				url: 'https://www.36kr.com/',
 				category: 'cNews'
 			},
+			{
+				site: '小红书',
+				icon: 'xiaohongshu',
+				url: 'https://www.xiaohongshu.com/',
+				category: 'cNews'
+			},
 
 
 			{
